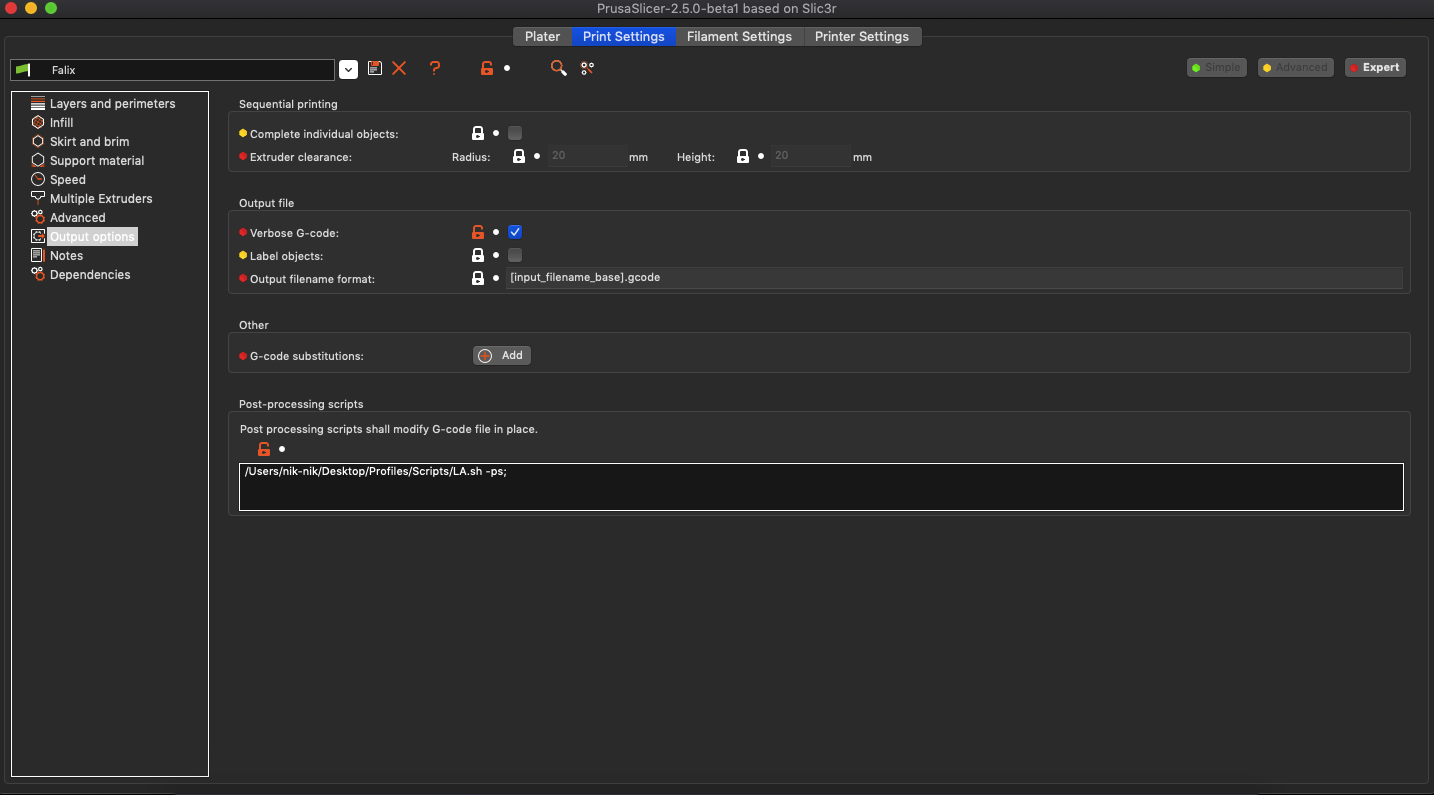
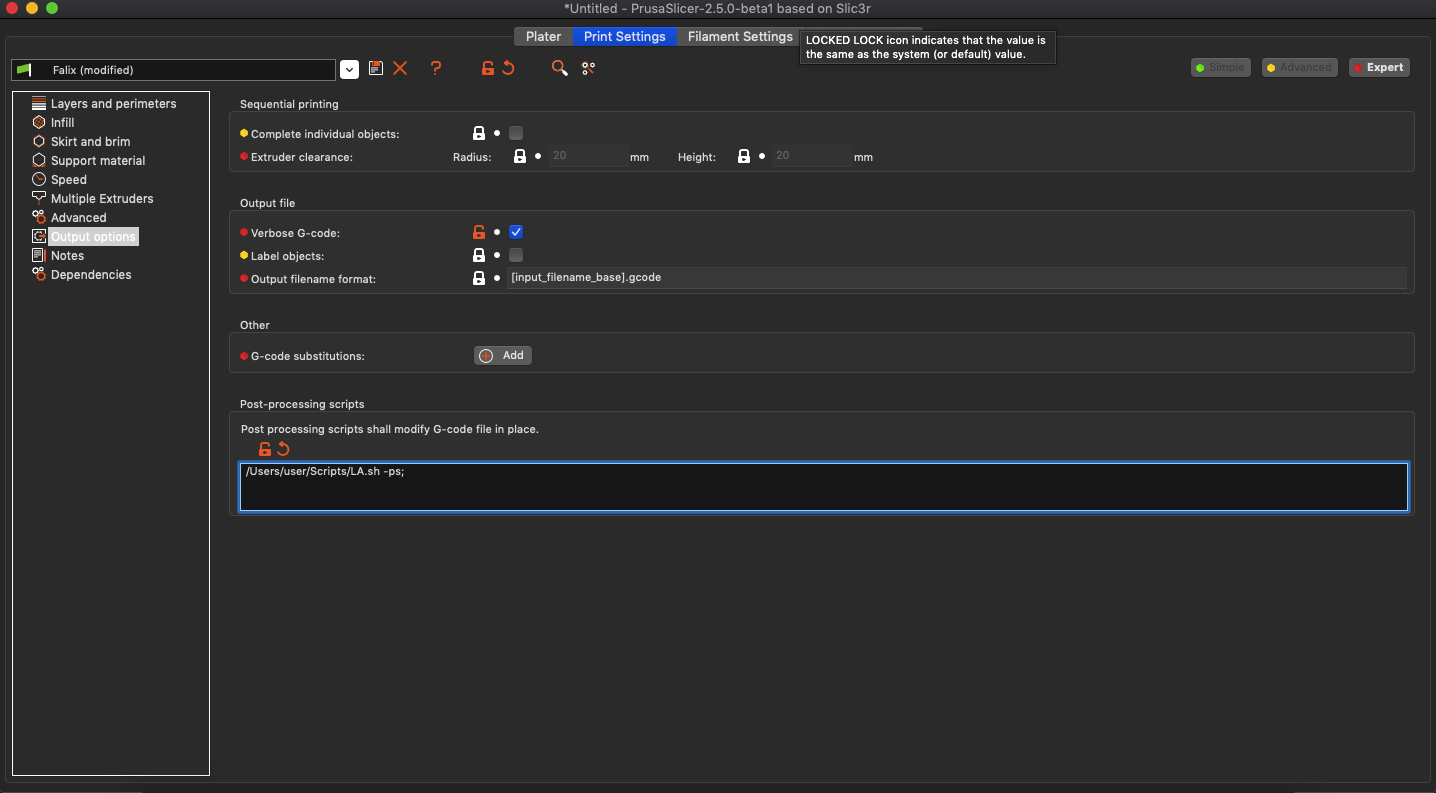
Add full description for README.md

diff --git a/src/linearAdvance.py b/src/linearAdvance.py
@@ -80,7 +80,7 @@ if __name__ == "__main__":
             # print("Arg 2 is " + slicerArgument)
             sys.exit(0)
         newFilename = do_file.automatic_work()
-        print("Success " + newFilename)
+        print("Success!!! \r\n\r\nNew file is" + newFilename)
     except FileExistsError:
         print("Uncorrect name")
     except Exception as e:

diff --git a/README.md b/README.md
@@ -12,7 +12,7 @@ Script add Linear Advanced (or Pressure Advanced) on wall and disable this for i
 
 `; LA value M572 D0 S0.08`
 
-, where `M572 D0` - Linear Advance command for youre printer system. In RRF it is `M572 D0`, for Marlin it is `M900`, for Repitier it is `TODO()`. The `S0.08` is the value of Linaear Advance.
+, where `M572 D0` - Linear Advance command for youre printer system. In RRF it is `M572 D0`, for Marlin it is `M900`, for Repitier it is `M233`. The `S0.08` is the value of Linaear Advance.
 
 2. In "Adittional terminal commands for post processing" add 
 
@@ -28,11 +28,13 @@ Script add Linear Advanced (or Pressure Advanced) on wall and disable this for i
 
 `; LA value M572 D0 S0.08`
 
-, where `M572 D0` - Linear Advance command for youre printer system. In RRF it is `M572 D0`, for Marlin it is `M900`, for Repitier it is `TODO()`. The `S0.08` is the value of Linaear Advance.
+, where `M572 D0` - Linear Advance command for youre printer system. In RRF it is `M572 D0`, for Marlin it is `M900`, for Repitier it is `M233`. The `S0.08` is the value of Linaear Advance.
 
 <img src = pictures/LA_PS_01.png>
 
-2. In "Print Settings -> Output oprions -> Post-processing scripts" add
+2. In "Print Settings -> Output oprions -> Output file" set "Verboose G-code"
+
+3. In "Print Settings -> Output oprions -> Post-processing scripts" add
 
 `/Users/user/Scripts/LA.sh -ps;`
 
